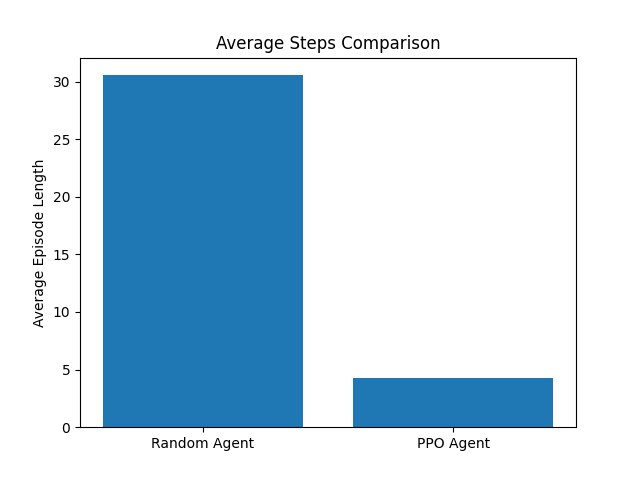
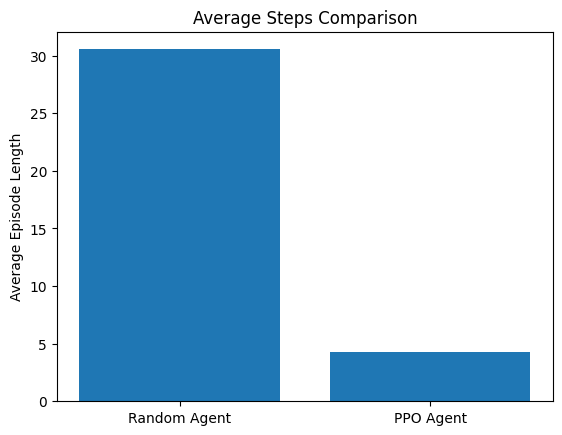
Complete Day 5 visualization and grid evaluation

Changed region(s): [[0.0, 0.0299, 0.9982, 0.9862], [0.0605, 0.1195, 0.0907, 0.1494]]

diff --git a/evaluation/generate_plots.py b/evaluation/generate_plots.py
@@ -5,37 +5,76 @@ import matplotlib.pyplot as plt
 RESULTS_DIR = "results"
 
 
+AGENT_COMPARISON = {
+    "agents": ["Random Agent", "PPO Agent"],
+    "success_rates": [63, 100],
+    "average_rewards": [0.63, 1.00],
+    "average_steps": [30.55, 4.26],
+}
+
+
+GRID_SIZE_COMPARISON = {
+    "grids": ["5x5", "10x10"],
+    "success_rates": [100, 96],
+    "average_rewards": [1.00, 0.96],
+    "average_steps": [3.86, 12.88],
+}
+
+
 def create_results_folder():
     os.makedirs(RESULTS_DIR, exist_ok=True)
 
 
-def plot_success_rate():
-    agents = ["Random Agent", "PPO Agent"]
-    success_rates = [63, 100]
-
+def save_bar_plot(labels, values, ylabel, title, filename, ylim=None):
     plt.figure()
-    plt.bar(agents, success_rates)
-    plt.ylabel("Success Rate (%)")
-    plt.title("Success Rate Comparison")
-    plt.ylim(0, 110)
+    plt.bar(labels, values)
+    plt.ylabel(ylabel)
+    plt.title(title)
 
-    output_path = os.path.join(RESULTS_DIR, "success_rate_comparison.png")
-    plt.savefig(output_path)
+    if ylim is not None:
+        plt.ylim(ylim)
+
+    output_path = os.path.join(RESULTS_DIR, filename)
+    plt.savefig(output_path, bbox_inches="tight")
     plt.close()
 
 
-def plot_average_steps():
-    agents = ["Random Agent", "PPO Agent"]
-    average_steps = [30.55, 4.26]
+def plot_agent_comparison():
+    save_bar_plot(
+        labels=AGENT_COMPARISON["agents"],
+        values=AGENT_COMPARISON["success_rates"],
+        ylabel="Success Rate (%)",
+        title="Success Rate Comparison",
+        filename="success_rate_comparison.png",
+        ylim=(0, 110),
+    )
 
-    plt.figure()
-    plt.bar(agents, average_steps)
-    plt.ylabel("Average Episode Length")
-    plt.title("Average Steps Comparison")
+    save_bar_plot(
+        labels=AGENT_COMPARISON["agents"],
+        values=AGENT_COMPARISON["average_steps"],
+        ylabel="Average Episode Length",
+        title="Average Steps Comparison",
+        filename="average_steps_comparison.png",
+    )
 
-    output_path = os.path.join(RESULTS_DIR, "average_steps_comparison.png")
-    plt.savefig(output_path)
-    plt.close()
+
+def plot_grid_size_comparison():
+    save_bar_plot(
+        labels=GRID_SIZE_COMPARISON["grids"],
+        values=GRID_SIZE_COMPARISON["success_rates"],
+        ylabel="Success Rate (%)",
+        title="Grid Size Generalization - Success Rate",
+        filename="grid_size_success_rate.png",
+        ylim=(0, 110),
+    )
+
+    save_bar_plot(
+        labels=GRID_SIZE_COMPARISON["grids"],
+        values=GRID_SIZE_COMPARISON["average_steps"],
+        ylabel="Average Episode Length",
+        title="Grid Size Generalization - Average Steps",
+        filename="grid_size_average_steps.png",
+    )
 
 
 def save_metrics_summary():
@@ -43,28 +82,54 @@ def save_metrics_summary():
 
     with open(output_path, "w", encoding="utf-8") as file:
         file.write("===== SWARM RL RESULTS =====\n\n")
-        file.write("Random Agent:\n")
-        file.write("Success Rate: 63%\n")
-        file.write("Average Reward: 0.63\n")
-        file.write("Average Steps: 30.55\n\n")
 
-        file.write("PPO Agent:\n")
-        file.write("Success Rate: 100%\n")
-        file.write("Average Reward: 1.00\n")
-        file.write("Average Steps: 4.26\n\n")
+        file.write("Agent Comparison:\n\n")
+
+        for index, agent in enumerate(AGENT_COMPARISON["agents"]):
+            file.write(f"{agent}:\n")
+            file.write(
+                f"Success Rate: {AGENT_COMPARISON['success_rates'][index]:.2f}%\n"
+            )
+            file.write(
+                f"Average Reward: {AGENT_COMPARISON['average_rewards'][index]:.2f}\n"
+            )
+            file.write(
+                f"Average Steps: {AGENT_COMPARISON['average_steps'][index]:.2f}\n\n"
+            )
 
         file.write("Conclusion:\n")
         file.write(
             "The PPO agent significantly outperforms the random baseline, "
-            "achieving perfect success rate and requiring far fewer steps "
-            "to collect the resource.\n"
+            "achieving a perfect success rate and requiring far fewer steps "
+            "to collect the resource.\n\n"
+        )
+
+        file.write("===== GRID SIZE GENERALIZATION =====\n\n")
+
+        for index, grid in enumerate(GRID_SIZE_COMPARISON["grids"]):
+            file.write(f"{grid} Grid:\n")
+            file.write(
+                f"Success Rate: {GRID_SIZE_COMPARISON['success_rates'][index]:.2f}%\n"
+            )
+            file.write(
+                f"Average Reward: {GRID_SIZE_COMPARISON['average_rewards'][index]:.2f}\n"
+            )
+            file.write(
+                f"Average Steps: {GRID_SIZE_COMPARISON['average_steps'][index]:.2f}\n\n"
+            )
+
+        file.write("Conclusion:\n")
+        file.write(
+            "The PPO agent trained on the original 5x5 environment generalizes "
+            "well to a larger 10x10 grid. However, the average episode length "
+            "increases, showing that larger environments reduce collection efficiency.\n"
         )
 
 
 def main():
     create_results_folder()
-    plot_success_rate()
-    plot_average_steps()
+    plot_agent_comparison()
+    plot_grid_size_comparison()
     save_metrics_summary()
 
     print("Results generated successfully.")